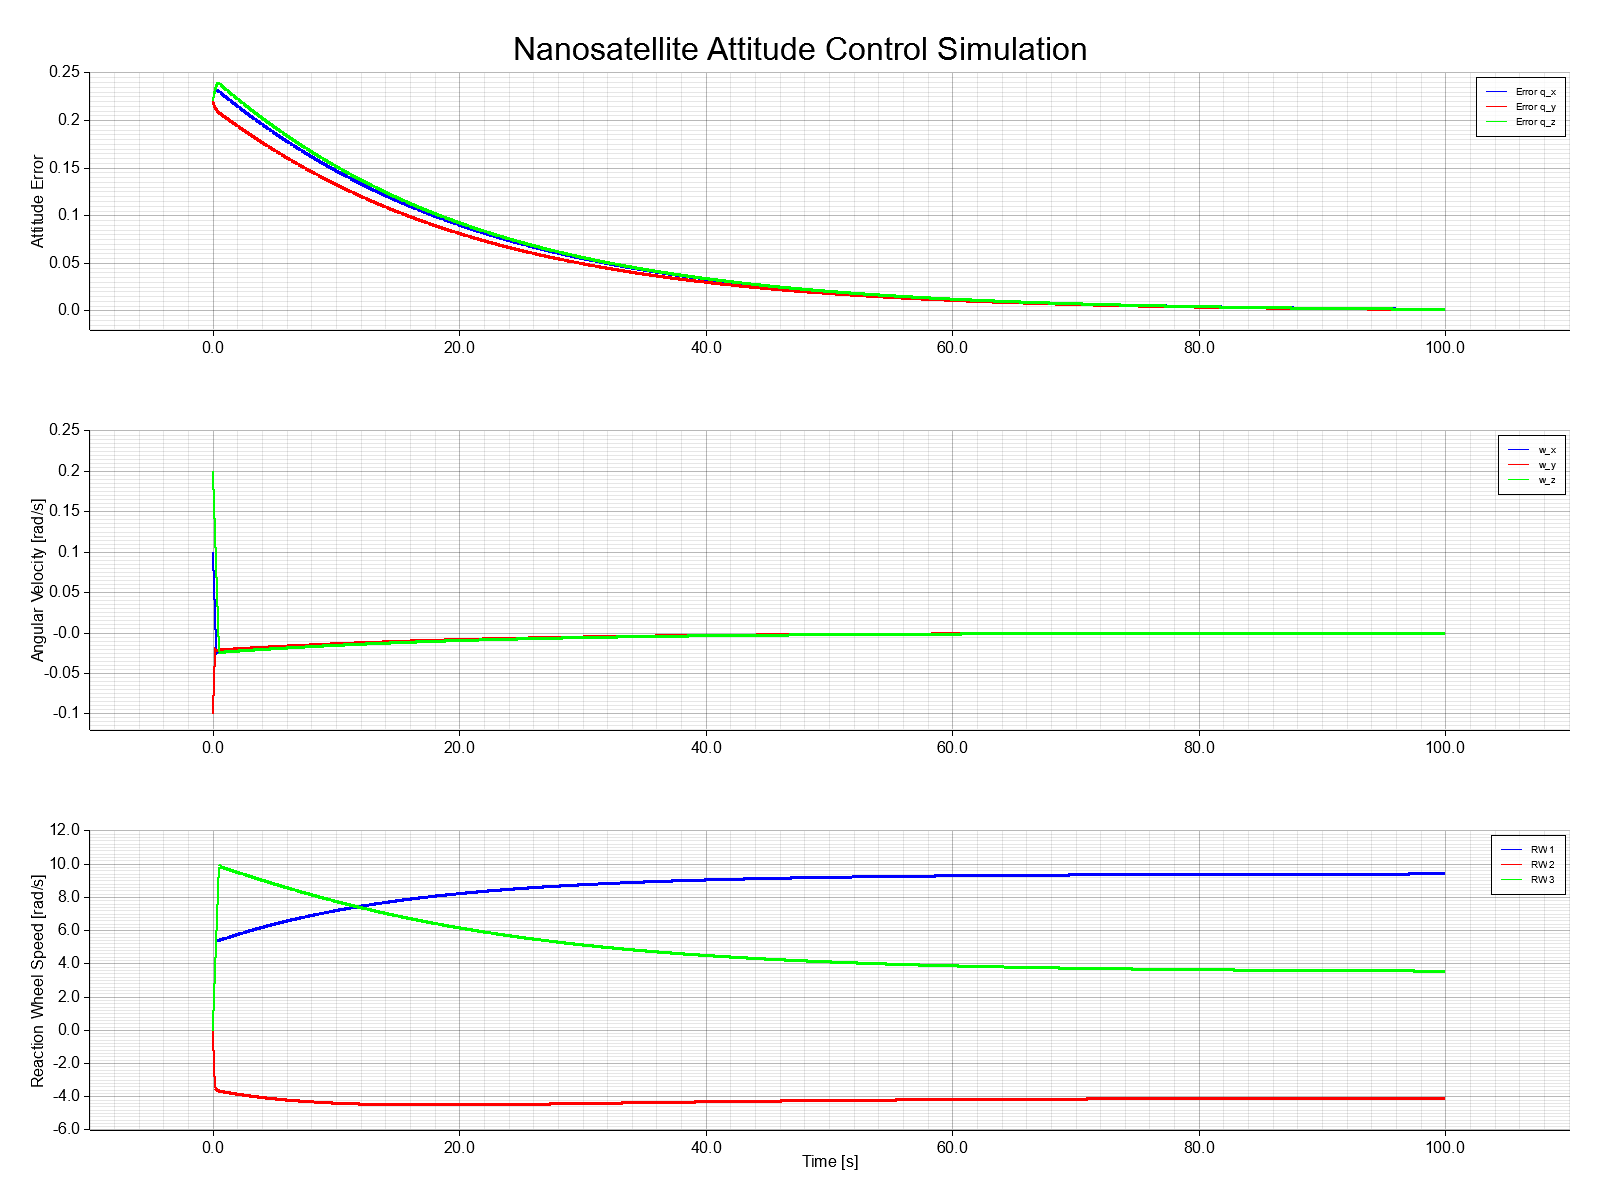
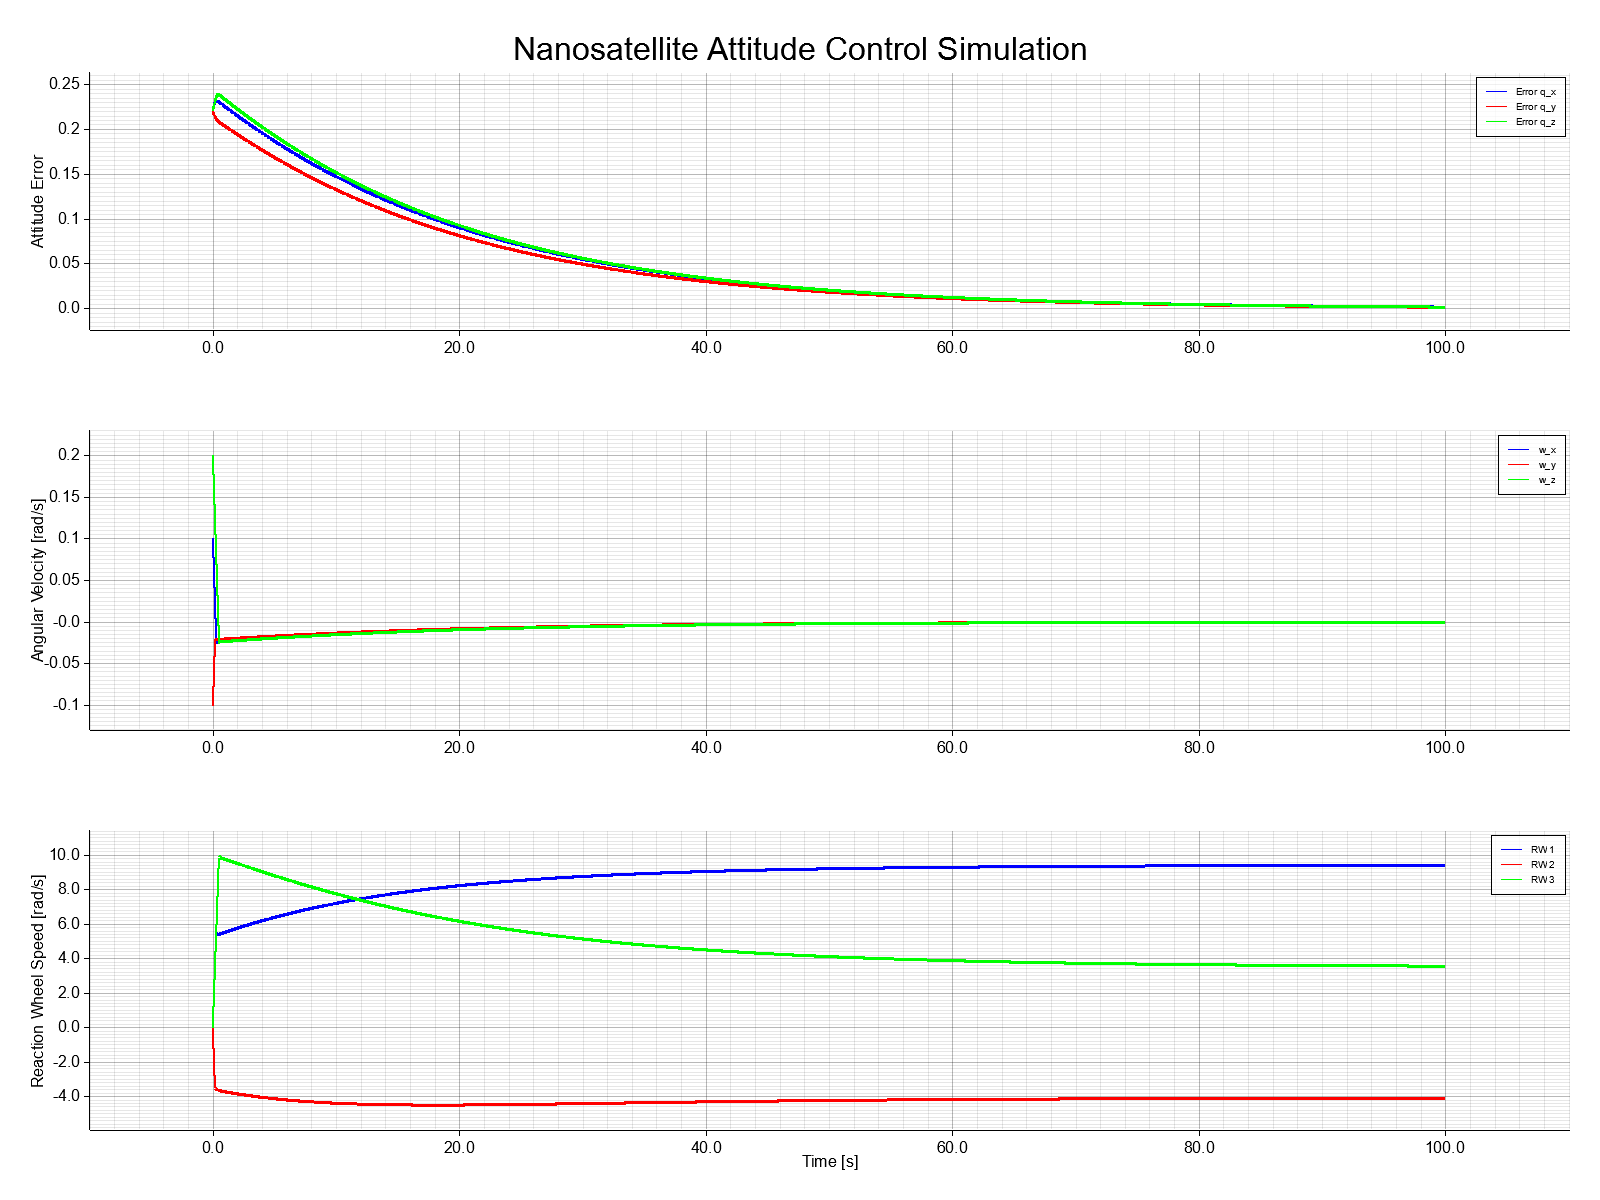
feat: dynamic y-axis range and formatted code

Changed region(s): [[0.0312, 0.6783, 1.0, 0.9558], [0.0312, 0.37, 1.0, 0.5858], [0.0312, 0.0617, 1.0, 0.2775]]

diff --git a/PD-RW/src/plotters.rs b/PD-RW/src/plotters.rs
@@ -1,35 +1,84 @@
-use plotters::{coord::{types::{RangedCoordf64}, Shift}, prelude::*};
+use plotters::{
+    coord::{Shift, types::RangedCoordf64},
+    prelude::*,
+};
 
-use crate::discrete_time_model::{transducer::Transducer, types::{Quaternion, Vec3}};
+use crate::discrete_time_model::{
+    transducer::Transducer,
+    types::{Quaternion, Vec3},
+};
 
 const OUT_FILE_NAME: &str = "images/Simulation Result.png";
 
 pub fn draw(transducer: &Transducer, total_time: f64) {
-    let root = BitMapBackend::new(OUT_FILE_NAME, (1600, 1200))
-        .into_drawing_area();
+    let root = BitMapBackend::new(OUT_FILE_NAME, (1600, 1200)).into_drawing_area();
     root.fill(&WHITE).unwrap();
 
     let areas = root.split_evenly((3, 1));
     let ten_percent = total_time * 0.1;
     let max_x = total_time + ten_percent;
     let dt = total_time / transducer.get_q_error_history().len() as f64;
+    let q_error_range = transducer.get_q_error_range_with_margin();
+    let w_history_range = transducer.get_w_history_range_with_margin();
+    let rw_speeds_range = transducer.get_rw_speeds_range_with_margin();
 
-    draw_q_error(&areas[0], transducer.get_q_error_history(), ten_percent, max_x, dt);
-    draw_w_history(&areas[1], transducer.get_w_history(), ten_percent, max_x, dt);
-    draw_rw_speeds_history(&areas[2], transducer.get_rw_speeds_history(), ten_percent, max_x, dt);
 
-    root.present().expect("Unable to write result to file, please make sure 'images' dir exists under current dir");
-    println!("Nanosatellite Attitude Control Simulation has been saved to {}", OUT_FILE_NAME);
+    draw_q_error(
+        &areas[0],
+        transducer.get_q_error_history(),
+        ten_percent,
+        max_x,
+        q_error_range.0,
+        q_error_range.1,
+        dt,
+    );
+    draw_w_history(
+        &areas[1],
+        transducer.get_w_history(),
+        ten_percent,
+        max_x,
+        w_history_range.0,
+        w_history_range.1,
+        dt,
+    );
+    draw_rw_speeds_history(
+        &areas[2],
+        transducer.get_rw_speeds_history(),
+        ten_percent,
+        max_x,
+        rw_speeds_range.0,
+        rw_speeds_range.1,
+        dt,
+    );
+
+    root.present().expect(
+        "Unable to write result to file, please make sure 'images' dir exists under current dir",
+    );
+    println!(
+        "Nanosatellite Attitude Control Simulation has been saved to {}",
+        OUT_FILE_NAME
+    );
 }
 
-fn draw_q_error(area: &DrawingArea<BitMapBackend, Shift>, data: Vec<Quaternion>, min_x: f64, max_x: f64, dt: f64) {
+fn draw_q_error(
+    area: &DrawingArea<BitMapBackend, Shift>,
+    data: Vec<Quaternion>,
+    min_x: f64,
+    max_x: f64,
+    min_y: f64,
+    max_y: f64,
+    dt: f64,
+) {
     let mut ctx = ChartBuilder::on(area)
-    .set_label_area_size(LabelAreaPosition::Left, 60)
-    .set_label_area_size(LabelAreaPosition::Bottom, 40)
-    .margin(30)
-    .caption("Nanosatellite Attitude Control Simulation", ("sans-serif", 40))
-    .build_cartesian_2d(-min_x..max_x, -0.02f64..0.25f64)
-    .unwrap();
+        .set_label_area_size(LabelAreaPosition::Left, 60)
+        .set_label_area_size(LabelAreaPosition::Bottom, 40)
+        .margin(30)
+        .caption(
+            "Nanosatellite Attitude Control Simulation",
+            ("sans-serif", 40),
+        )
+        .build_cartesian_2d(-min_x..max_x, min_y..max_y)
+        .unwrap();
 
     configure_mesh(&mut ctx, "", "Attitude Error");
 
@@ -41,12 +90,12 @@ fn draw_q_error(area: &DrawingArea<BitMapBackend, Shift>, data: Vec<Quaternion>,
 
     for (color, label, extractor) in series_data {
         ctx.draw_series(LineSeries::new(
-            data
-                .iter()
+            data.iter()
                 .enumerate()
                 .map(|(i, q)| (i as f64 * dt, extractor(q))),
             ShapeStyle::from(color).stroke_width(2),
-        )).unwrap()
+        ))
+        .unwrap()
         .label(label)
         .legend(|(x, y)| PathElement::new(vec![(x, y), (x + 20, y)], *color));
     }
@@ -54,12 +103,20 @@ fn draw_q_error(area: &DrawingArea<BitMapBackend, Shift>, data: Vec<Quaternion>,
     draw_series_labels(&mut ctx);
 }
 
-fn draw_w_history(area: &DrawingArea<BitMapBackend, Shift>, data: Vec<Vec3>, min_x: f64, max_x: f64, dt: f64) {
+fn draw_w_history(
+    area: &DrawingArea<BitMapBackend, Shift>,
+    data: Vec<Vec3>,
+    min_x: f64,
+    max_x: f64,
+    min_y: f64,
+    max_y: f64,
+    dt: f64,
+) {
     let mut ctx = ChartBuilder::on(area)
         .margin(30)
         .set_label_area_size(LabelAreaPosition::Left, 60)
         .set_label_area_size(LabelAreaPosition::Bottom, 40)
-        .build_cartesian_2d(-min_x..max_x, -0.12f64..0.25f64)
+        .build_cartesian_2d(-min_x..max_x, min_y..max_y)
         .unwrap();
 
     configure_mesh(&mut ctx, "", "Angular Velocity [rad/s]");
@@ -72,9 +129,12 @@ fn draw_w_history(area: &DrawingArea<BitMapBackend, Shift>, data: Vec<Vec3>, min
 
     for (color, label, extractor) in series_data {
         ctx.draw_series(LineSeries::new(
-            data.iter().enumerate().map(|(i, v)| (i as f64 * dt, extractor(v))),
+            data.iter()
+                .enumerate()
+                .map(|(i, v)| (i as f64 * dt, extractor(v))),
             ShapeStyle::from(color).stroke_width(2),
-        )).unwrap()
+        ))
+        .unwrap()
         .label(label)
         .legend(|(x, y)| PathElement::new(vec![(x, y), (x + 20, y)], *color));
     }
@@ -82,16 +142,24 @@ fn draw_w_history(area: &DrawingArea<BitMapBackend, Shift>, data: Vec<Vec3>, min
     draw_series_labels(&mut ctx);
 }
 
-fn draw_rw_speeds_history(area: &DrawingArea<BitMapBackend, Shift>, data: Vec<Vec3>, min_x: f64, max_x: f64, dt: f64) {
+fn draw_rw_speeds_history(
+    area: &DrawingArea<BitMapBackend, Shift>,
+    data: Vec<Vec3>,
+    min_x: f64,
+    max_x: f64,
+    min_y: f64,
+    max_y: f64,
+    dt: f64,
+) {
     let mut ctx = ChartBuilder::on(area)
         .margin(30)
         .set_label_area_size(LabelAreaPosition::Left, 60)
         .set_label_area_size(LabelAreaPosition::Bottom, 40)
-        .build_cartesian_2d(-min_x..max_x, -6.0f64..12.0f64)
+        .build_cartesian_2d(-min_x..max_x, min_y..max_y)
         .unwrap();
 
     configure_mesh(&mut ctx, "Time [s]", "Reaction Wheel Speed [rad/s]");
-    
+
     let series_data: [(&RGBColor, &str, fn(&Vec3) -> f64); 3] = [
         (&BLUE, "RW 1", |v| v.0.x),
         (&RED, "RW 2", |v| v.0.y),
@@ -100,9 +168,12 @@ fn draw_rw_speeds_history(area: &DrawingArea<BitMapBackend, Shift>, data: Vec<Ve
 
     for (color, label, extractor) in series_data {
         ctx.draw_series(LineSeries::new(
-            data.iter().enumerate().map(|(i, v)| (i as f64 * dt, extractor(v))),
+            data.iter()
+                .enumerate()
+                .map(|(i, v)| (i as f64 * dt, extractor(v))),
             ShapeStyle::from(color).stroke_width(2),
-        )).unwrap()
+        ))
+        .unwrap()
         .label(label)
         .legend(|(x, y)| PathElement::new(vec![(x, y), (x + 20, y)], *color));
     }
@@ -110,7 +181,9 @@ fn draw_rw_speeds_history(area: &DrawingArea<BitMapBackend, Shift>, data: Vec<Ve
     draw_series_labels(&mut ctx);
 }
 
-fn draw_series_labels<'a>(ctx: &mut ChartContext<'a, BitMapBackend<'a>, Cartesian2d<RangedCoordf64, RangedCoordf64>>) {
+fn draw_series_labels<'a>(
+    ctx: &mut ChartContext<'a, BitMapBackend<'a>, Cartesian2d<RangedCoordf64, RangedCoordf64>>,
+) {
     ctx.configure_series_labels()
         .background_style(&WHITE.mix(0.8))
         .border_style(&BLACK)
@@ -119,7 +192,11 @@ fn draw_series_labels<'a>(ctx: &mut ChartContext<'a, BitMapBackend<'a>, Cartesia
         .unwrap();
 }
 
-fn configure_mesh<'a>(ctx: &mut ChartContext<'a, BitMapBackend<'a>, Cartesian2d<RangedCoordf64, RangedCoordf64>>, x: &str, y: &str) {
+fn configure_mesh<'a>(
+    ctx: &mut ChartContext<'a, BitMapBackend<'a>, Cartesian2d<RangedCoordf64, RangedCoordf64>>,
+    x: &str,
+    y: &str,
+) {
     ctx.configure_mesh()
         .x_desc(x)
         .y_desc(y)

diff --git a/PD-RW/src/discrete_time_model/transducer.rs b/PD-RW/src/discrete_time_model/transducer.rs
@@ -10,10 +10,14 @@ pub struct Transducer {
     q_error_history: Vec<Quaternion>,
     w_history: Vec<Vec3>,
     rw_speeds_history: Vec<Vec3>,
+    q_error_range: (f64, f64),
+    w_history_range: (f64, f64),
+    rw_speeds_history_range: (f64, f64),
+    range_margin: f64
 }
 
 impl Transducer {
-    pub fn new(name: &str) -> Self {
+    pub fn new(name: &str, m: f64) -> Self {
         let mut component = Component::new(name);
         let i_w = component.add_in_port::<Vec3>("i_w");
         let i_qe = component.add_in_port::<Quaternion>("i_qerror");
@@ -28,6 +32,10 @@ impl Transducer {
             q_error_history: Vec::new(),
             w_history: Vec::new(),
             rw_speeds_history: Vec::new(),
+            q_error_range: (0.0, 0.0),
+            w_history_range: (0.0, 0.0),
+            rw_speeds_history_range: (0.0, 0.0),
+            range_margin: m,
         }
     }
 
@@ -41,6 +49,38 @@ impl Transducer {
 
     pub fn get_rw_speeds_history(&self) -> Vec<Vec3> {
         self.rw_speeds_history.clone()
+    }
+
+    pub fn get_q_error_range_with_margin(&self) -> (f64, f64) {
+        let range = self.q_error_range.clone();
+        let margin = (range.1 - range.0).abs() * self.range_margin;
+        (range.0 - margin, range.1 + margin)
+    }
+
+    pub fn get_w_history_range_with_margin(&self) -> (f64, f64) {
+        let range = self.w_history_range.clone();
+        let margin = (range.1 - range.0).abs() * self.range_margin;
+        (range.0 - margin, range.1 + margin)
+    }
+
+    pub fn get_rw_speeds_range_with_margin(&self) -> (f64, f64) {
+        let range = self.rw_speeds_history_range.clone();
+        let margin = (range.1 - range.0).abs() * self.range_margin;
+        (range.0 - margin, range.1 + margin)
+    }
+    
+    fn update_range(compare: (f64, f64), values: Vec<f64>) -> (f64, f64) {
+        let min_val = values
+            .iter()
+            .cloned()
+            .fold(compare.0, f64::min);
+
+        let max_val = values
+            .iter()
+            .cloned()
+            .fold(compare.1, f64::max);
+
+        (min_val, max_val)
     }
 }
 
@@ -64,17 +104,23 @@ impl Atomic for Transducer {
 
         if !unsafe { self.i_q_error.is_empty() } {
             if let Some(q_error) = unsafe { self.i_q_error.get_values().first().cloned() } {
-                self.q_error_history.push(q_error);
+                self.q_error_history.push(q_error.clone());
+                let values = vec![q_error.clone().0.i, q_error.clone().0.j, q_error.clone().0.k];
+                self.q_error_range = Transducer::update_range(self.q_error_range, values);
             }
         }
         if !unsafe { self.i_w.is_empty() } {
             if let Some(w) = unsafe { self.i_w.get_values().first().cloned() } {
-                self.w_history.push(w);
+                self.w_history.push(w.clone());
+                let values = vec![w.clone().0.x, w.clone().0.y, w.clone().0.z];
+                self.w_history_range = Transducer::update_range(self.w_history_range, values);
             }
         }
         if !unsafe { self.i_rw_speeds.is_empty() } {
             if let Some(rw_speeds) = unsafe { self.i_rw_speeds.get_values().first().cloned() } {
-                self.rw_speeds_history.push(rw_speeds);
+                self.rw_speeds_history.push(rw_speeds.clone());
+                let values = vec![rw_speeds.clone().0.x, rw_speeds.clone().0.y, rw_speeds.clone().0.z];
+                self.rw_speeds_history_range = Transducer::update_range(self.rw_speeds_history_range, values);
             }
         }
     }

diff --git a/PD-RW/src/discrete_time_model.rs b/PD-RW/src/discrete_time_model.rs
@@ -23,6 +23,7 @@ impl DiscreteTimeModel {
         let mut coupled = Coupled::new(name);
         let h = h.unwrap_or(0.01);
         let time = 0.;
+        let margin_ratio = 0.1;
         // Target quaternion (identity orientation)
         let q_target = Quaternion(nalgebra::Quaternion::identity());
 
@@ -57,7 +58,7 @@ impl DiscreteTimeModel {
         let controller = Controller::new("Controller", time, q_target, kp, kd, max_torque_rw);
         let rw = RW::new("ReationWheels", time, rw_speeds_initial, i_rw, max_speed_rw, h,);
         let sd = SatelliteDynamics::new("SatelliteDynamics", time, w0, q0, h, i_sat);
-        let transducer = Box::new(Transducer::new("Transducer"));
+        let transducer = Box::new(Transducer::new("Transducer", margin_ratio));
         let transducer_ptr: *const Transducer = &*transducer;
 
         // Add components to model
